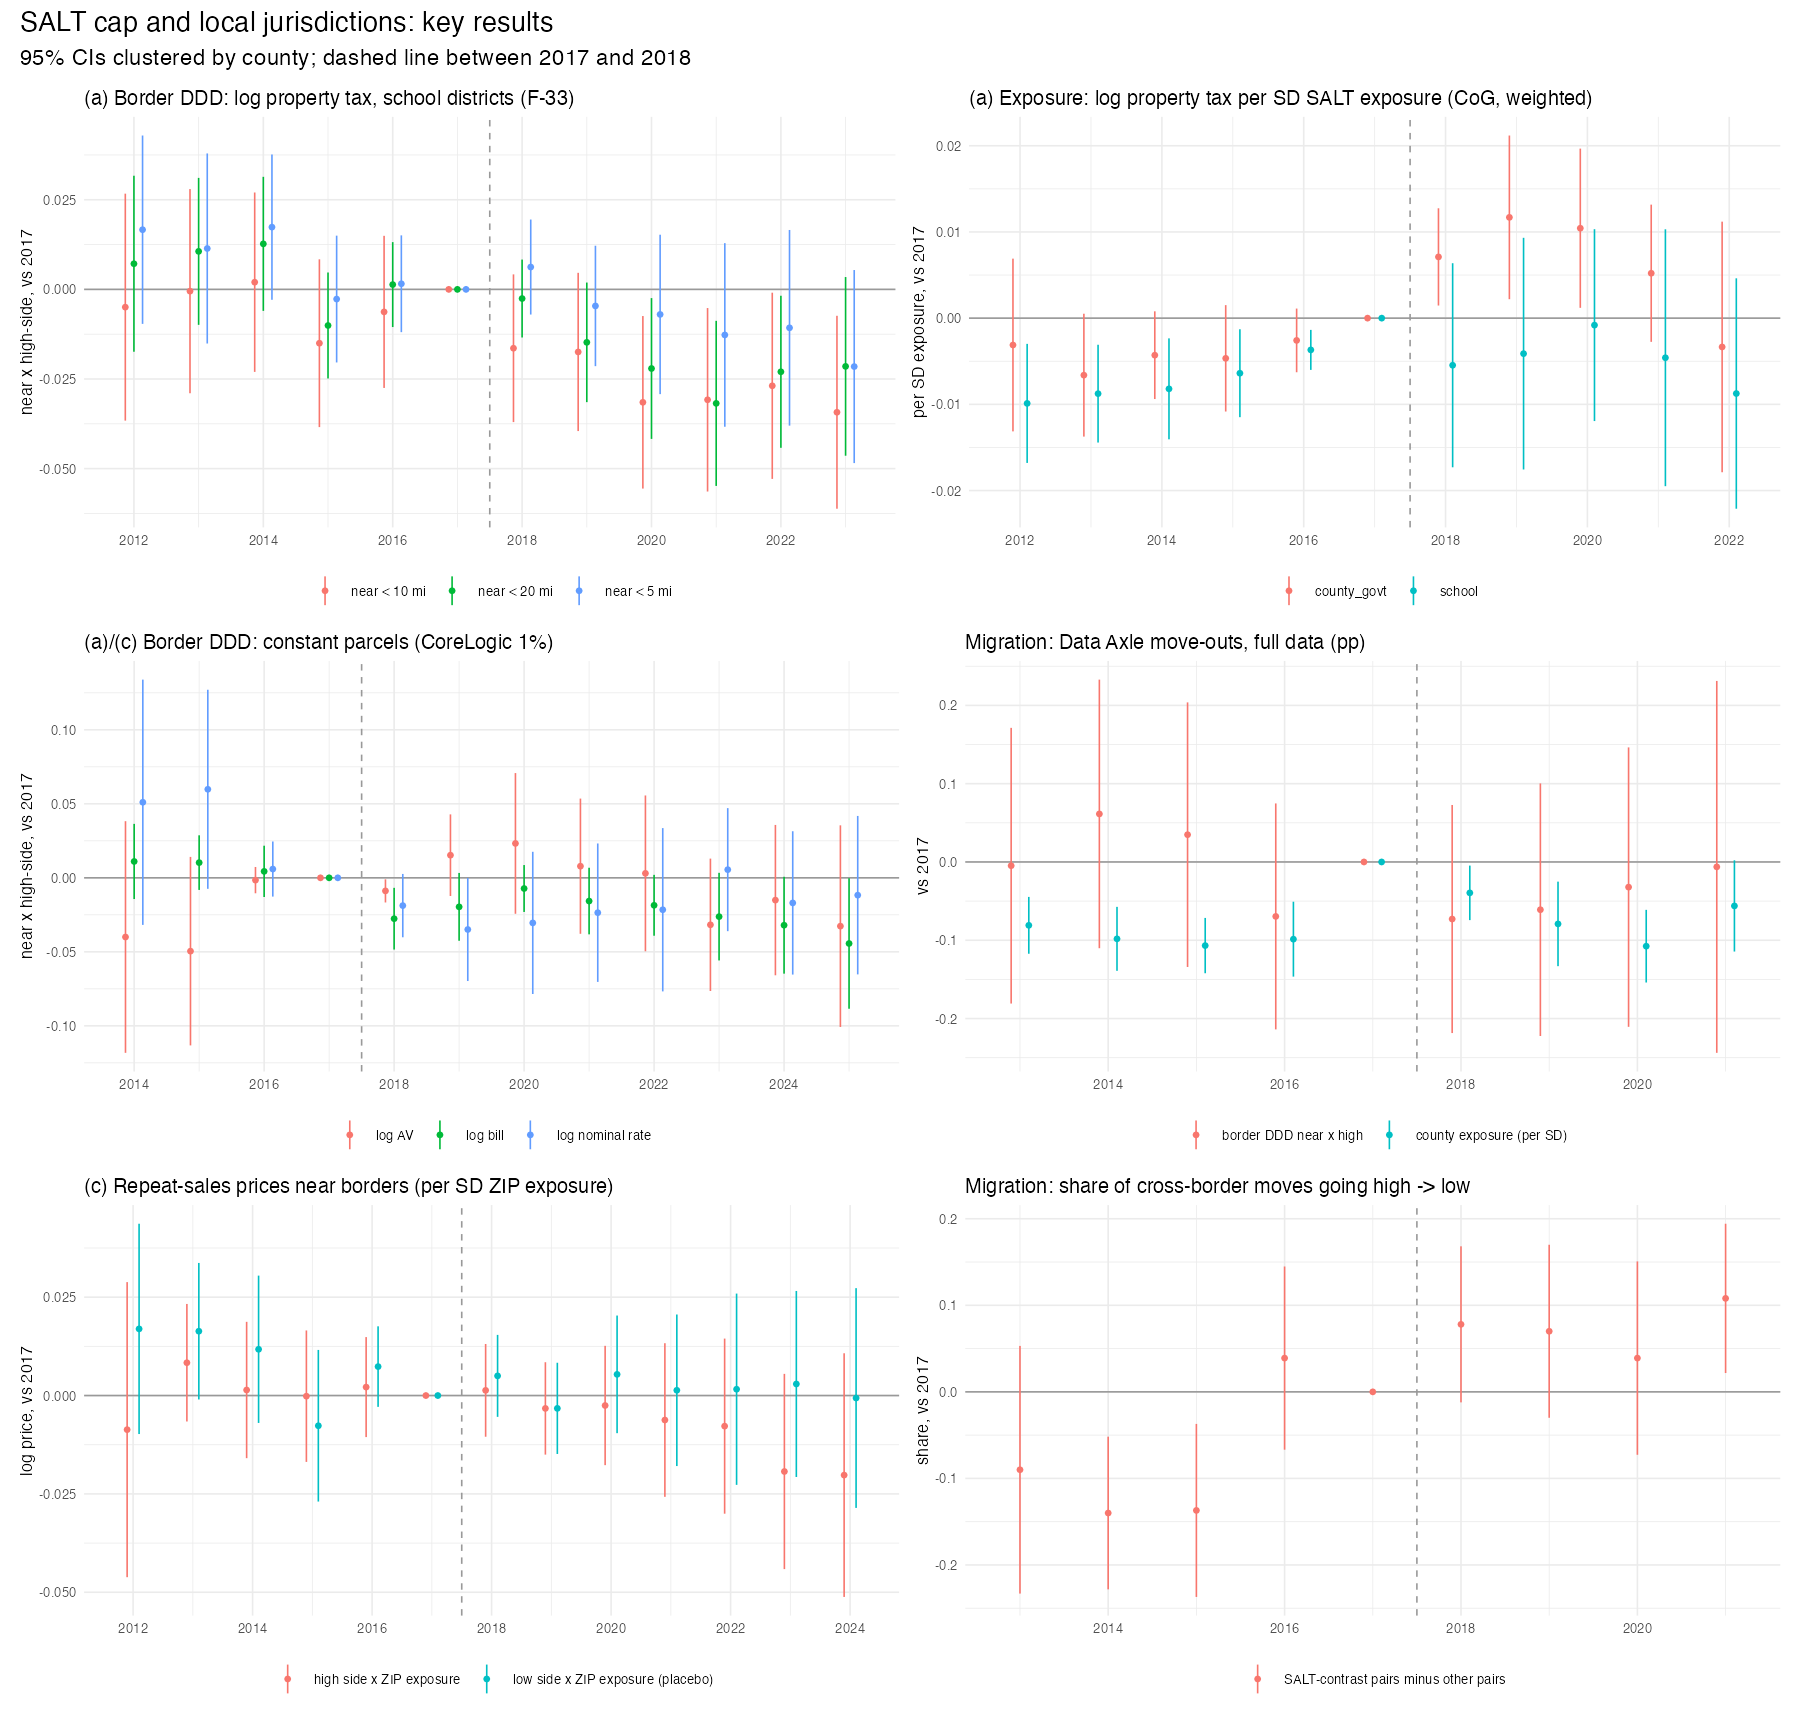
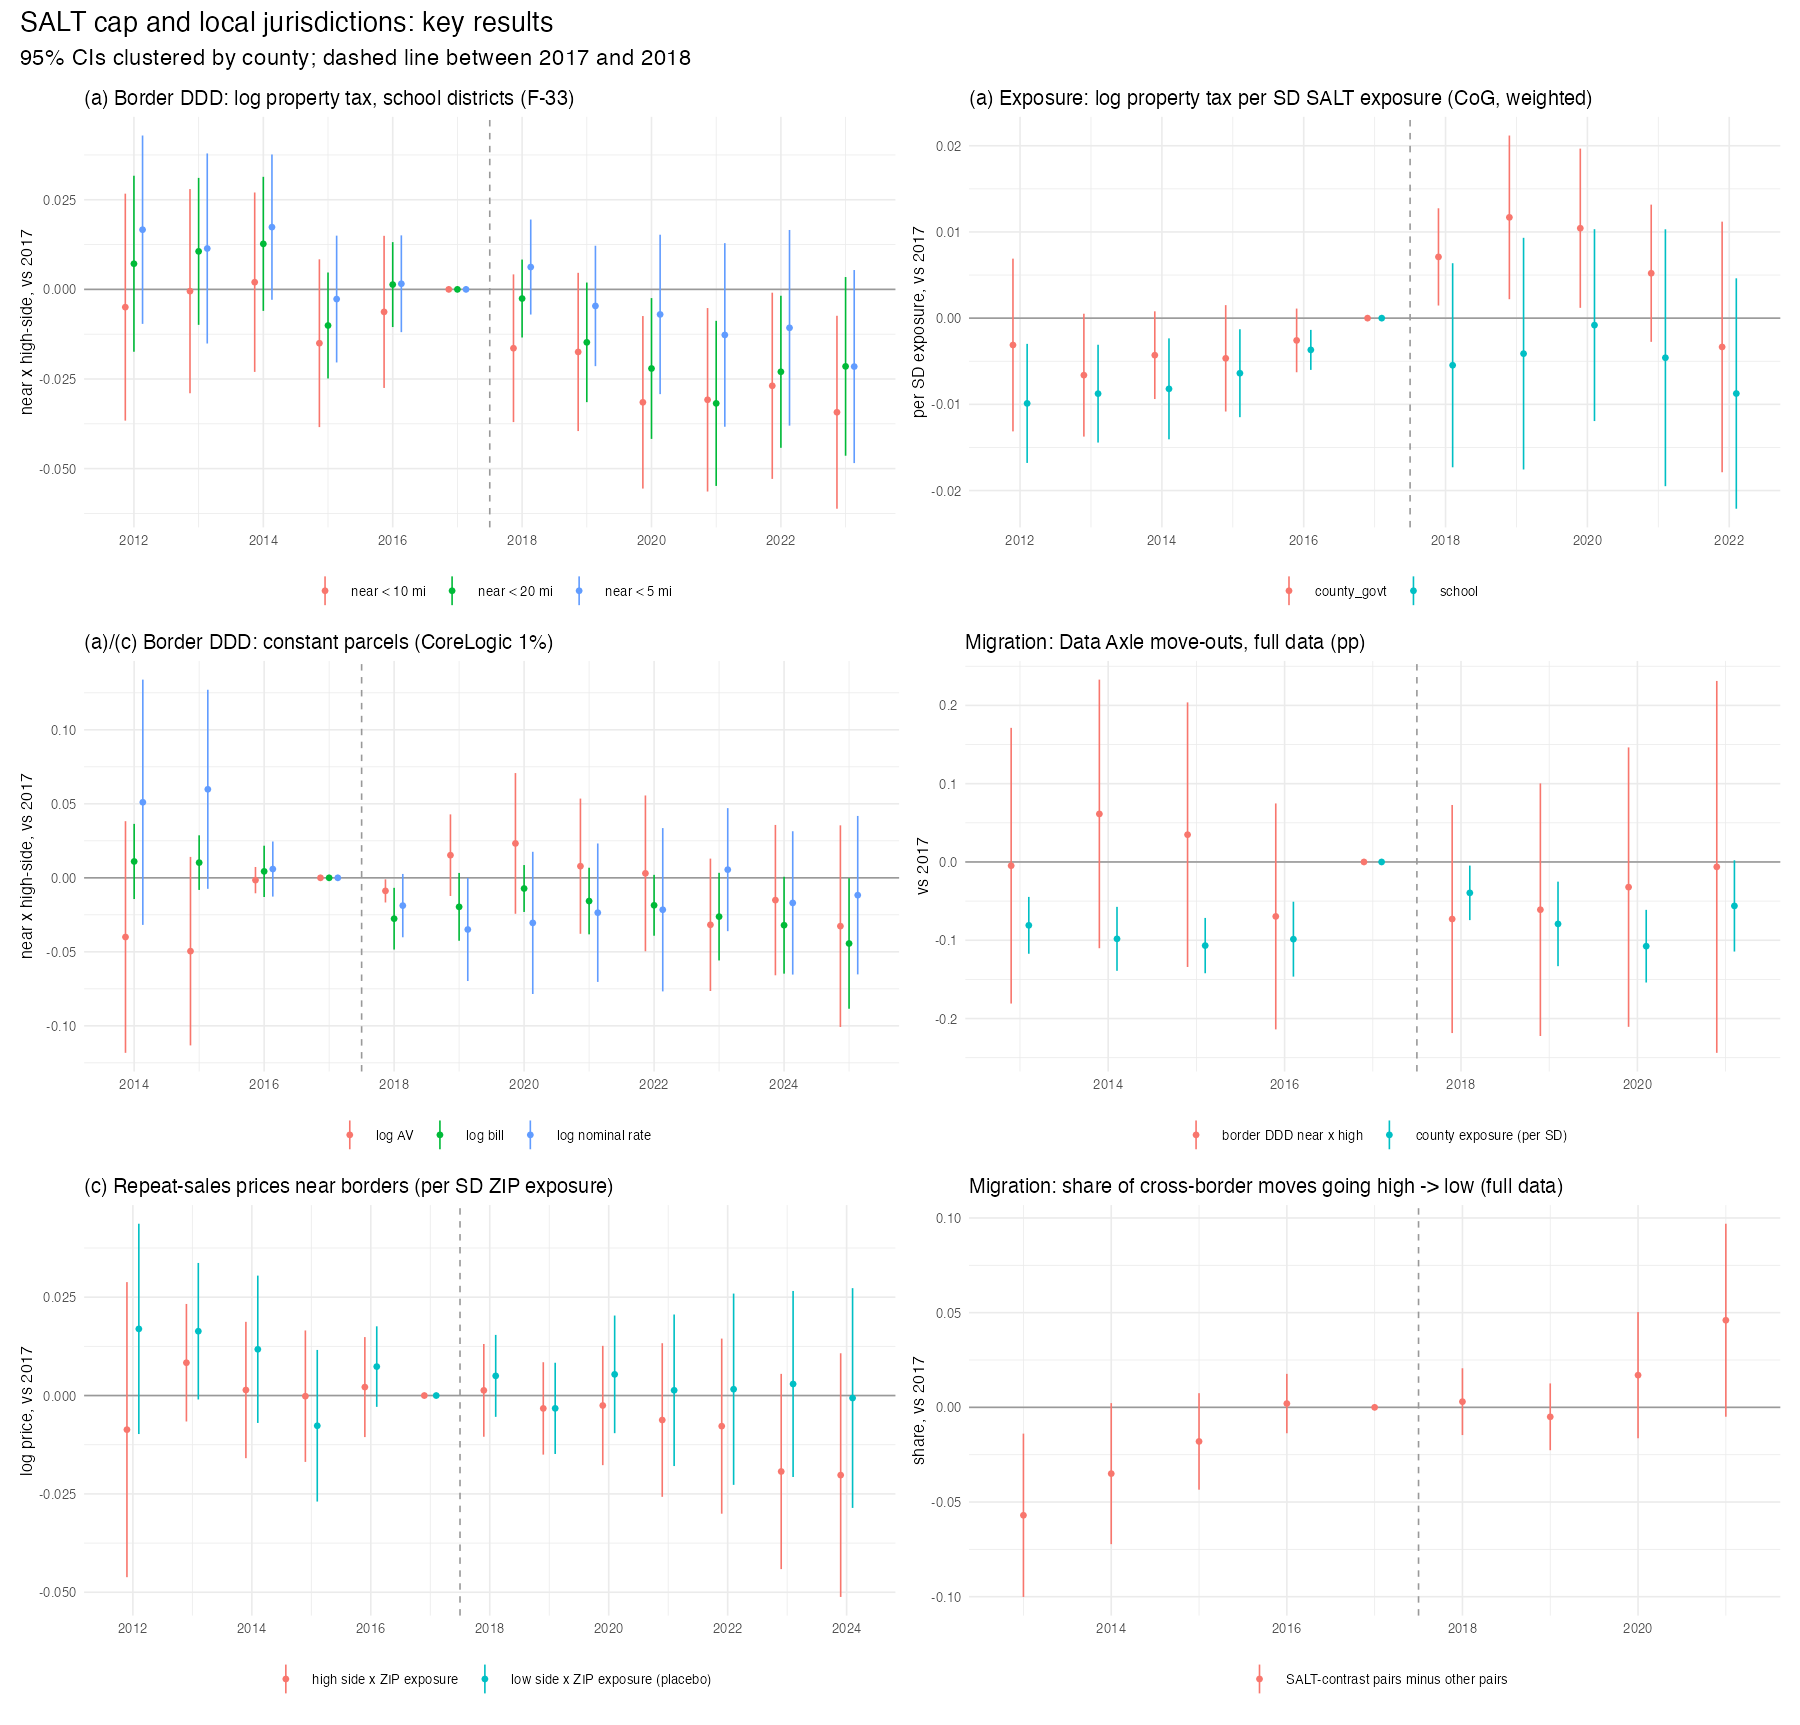
Full-data cross-border move direction, repeat-sales replication; report and key figure updated

diff --git a/output/analysis/salt_local/overnight_report.md b/output/analysis/salt_local/overnight_report.md
@@ -37,11 +37,15 @@ and dispersion, `b*` CoreLogic panel and prices, `c*` figures, `d*` migration, `
      effective rates (+2 to +3%) rise.
    - **Regressivity:** essentially unchanged.
    - **Nominal rates:** drift down 0.3–0.9% per SD in exposed counties, and 2–3.5% on the high side near borders.
-   - **Border capitalisation:** a cross-border capitalisation pattern appears with ZIP-level exposure: prices fall on the
-     high side and rise on the cheap side near borders in exposed ZIPs. But it is not robust in FHFA tract indices, and
-     with county exposure it fails a low-side placebo.
-5. **Migration.** No move-out response at all (Data Axle full data: 528m address pairs, 68k tracts) in either the border
-   or the exposure design. This matches the earlier sales-turnover result and the household-level SALT study.
+   - **Border capitalisation:** with ZIP-level exposure, prices on the high side near borders in exposed ZIPs drift down by
+     about 1% per SD by 2021–24, while the cheap side is flat. Repeat sales show this in two independent 30% samples (each
+     about −1%, SE 0.75), tract medians and FHFA indices point the same way, but none is significant on its own. With
+     county exposure the pattern fails a low-side placebo.
+5. **Migration.** No response, in Data Axle full data, in either the border or the exposure design:
+   - **Move-outs:** no change (528m address pairs, 68k tracts).
+   - **Direction of cross-border moves:** no shift toward the cheaper side (428k moves).
+
+   This matches the earlier sales-turnover result and the household-level SALT study.
 
 ## 2. Data assembled tonight
 
@@ -137,7 +141,8 @@ from a general post-2017 increase in cross-border competition (remote work, outf
     existed before 2017. (`b5_hpi_zip_exposure.txt`, figure)
   - **Repeat sales** (28.9m sales, parcel FE, 30% of parcels): high-side near-border × ZIP exposure declines gradually,
     0 before 2017 to −1.9/−2.0% per SD in 2023–24 (SE 1.3–1.6). The low-side placebo is flat. Pooled −0.2% (0.8) for 2018+,
-    plus −1.0% (0.7) from 2021. (`b6_repeat_sales.txt`, figure)
+    plus −1.0% (0.7) from 2021. An independent second 30% replicates it: −0.5% (0.8), plus −0.8% (0.8) from 2021.
+    The full sample does not fit in laptop memory. (`b6_repeat_sales.txt`, `b6_repeat_sales_rep2.txt`, figure)
   - **Suggestive, not established**: every version points toward capitalisation of the cross-border option in exposed
     areas, none is significant on its own.
 
@@ -147,10 +152,11 @@ Data Axle address move-outs (primary family changes; annualised by file cut-offs
 address pairs). County exposure: flat (pre −0.08 to −0.11 pp, post −0.04 to −0.11). Border DDD: pre −0.07 to +0.06, post
 −0.07 to −0.01 (SE 0.07–0.12). Interaction with exposure: none. (`d1_moveout_ddd.txt`, `d2_moveout_full.txt`)
 
-**Direction of cross-border moves** (Data Axle 1% families; 4,306 moves between opposite sides within 20 mi of the same
-border pair; `d3_family_moves.txt`). Overall, the share going high → low is flat. Where the high-tax side's state is also
-more SALT-exposed, that share rises from about 0.5 (2013–15) to about 0.63 (2016–21). Relative to other pairs the post-2017
-coefficients are +0.04 to +0.11 (SE 0.04–0.06), but the shift is already there in 2016, so it is not a clean break.
+**Direction of cross-border moves** (Data Axle, full data for families in 8,555 ZIPs near state borders; 427,738 moves
+between opposite sides within 20 mi of the same pair; `d3_family_moves_full.txt`). The share going high → low (0.40, or
+0.59 where the high side is the more exposed state) does not rise after 2017. Pair FE year effects are −0.5 to −3.5 pp
+(fewer moves toward the cheaper side, if anything). The SALT-contrast difference follows a pre-trend that ends in 2016 and
+shows no post-2017 break (+0.3 to +4.6 pp, SE 0.9–2.6). The 1% sample's pattern was that pre-trend plus noise.
 
 ## 8. Map: outside options across school-district lines
 
@@ -176,7 +182,6 @@ own minus the cheapest adjacent district, and, for state-line districts, own min
 - **Next steps:**
   1. Repeat sales on all parcels, not 30% (needs the cluster: the laptop's memory limits it), to tighten the capitalisation test.
   2. Dose-response with the 2018 SOI "limited SALT" amounts (actual binding) by ZIP.
-  3. Scale up the cross-border move-direction test to the full Data Axle (the 1% family sample has ~480 such moves a year).
   4. Synthetic placebo borders (county lines within states) for the district DDD.
   5. Separate the school-district result by state school-finance regime (states that cap levies, e.g. NJ 2% cap, NY tax
      cap, IL PTELL), since levy caps could produce the high-side slowdown independently of SALT.

diff --git a/text/data_exploration/dataaxle.md b/text/data_exploration/dataaxle.md
@@ -2041,3 +2041,9 @@ Extract `code/analysis/local_juris/bouchet/k_panel_{2012,2019}.sql` (= cluster/k
 - **Direction of cross-border moves** (`salt_local/bouchet/f_family_moves_1pct.sql`: Data Axle 1% family sample, 3.7m families, 47–68k address changes a year with LOR ≤ 2, 15–19% interstate; `d3_family_moves.R`). 4,306 moves with origin and destination within 20 mi of the same pair on opposite sides.
   - Share going high → low: pair FE year effects ≈ 0 (±0.05).
   - Pairs where the high-tax side's state is also more SALT-exposed: share 0.48–0.55 (2013–15) → 0.62–0.65 (2016–21). Relative to other pairs vs 2017: 2013–15 −0.09 to −0.14, 2016 +0.04, 2018–21 +0.08, +0.07, +0.04, +0.11 (SE 0.04–0.06). The shift toward high → low moves in SALT-contrast pairs mostly happens by 2016, so it is not a clean post-2017 break.
+- Repeat sales, all parcels: exceeds laptop memory (14–16 GB) at 55% and 100%. **Replication on an independent second 30%** (`RS_OFF=0.3`, `b6_repeat_sales_rep2.txt`): near × high × exposure pre −2.2 to 0% (2016 −1.1), post −1.3 to −2.8%; pooled post −0.5% (0.8), plus −0.8% (0.8) from 2021; low side ≈ 0. Two independent halves give late effects of −1.0 and −0.8% per SD (each SE ≈ 0.75): same sign, borderline jointly. Near × high alone rises in both (+1.5 → +5%, with 2016 already +1.8 to +2.2%).
+- **Full-data cross-border moves** (Bouchet devel `salt_local/bouchet/f_family_moves_full.sql`: families in 8,555 ZIPs near state borders, year pairs 2012→13 … 2020→21, 12.0m address changes, 1.36m interstate; `d3_family_moves.R` with `FM_IN='fmfull/*.parquet'`, output `d3_family_moves_full.txt`). 427,738 moves between opposite sides of a pair, both within 20 mi.
+  - Share going high → low: 0.40 (non-contrast pairs) and 0.59 (pairs whose high side is the more exposed state), stable.
+  - Pair FE year effects: pre +0.0 to +0.9 pp, post −0.5, −1.0, −1.8, −3.5 pp (SE 0.4–1.5): if anything, *fewer* moves toward the cheaper side.
+  - SALT-contrast difference: pre −5.7, −3.5, −1.8, +0.2 pp (a pre-trend that ends in 2016), post +0.3, −0.5, +1.7, +4.6 (SE 0.9–2.6).
+  - **No post-2017 shift toward the low-tax side.** The 1% sample's pattern was the pre-trend plus noise.
